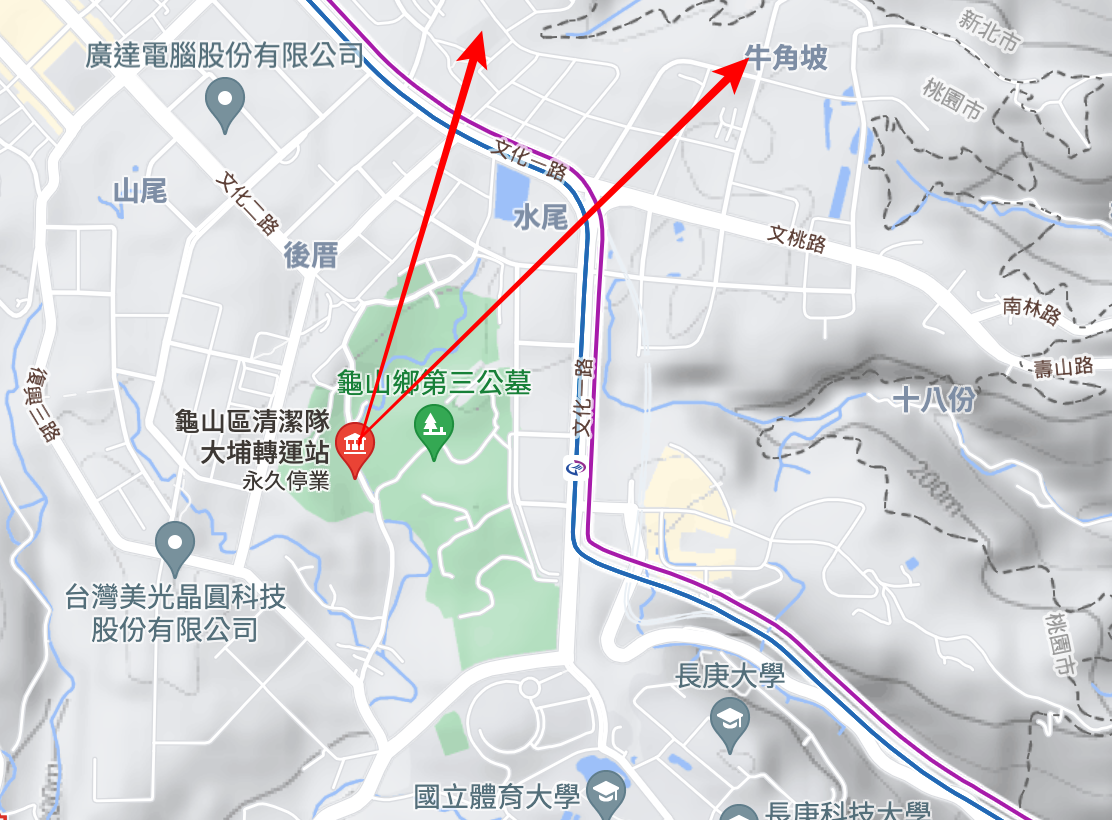
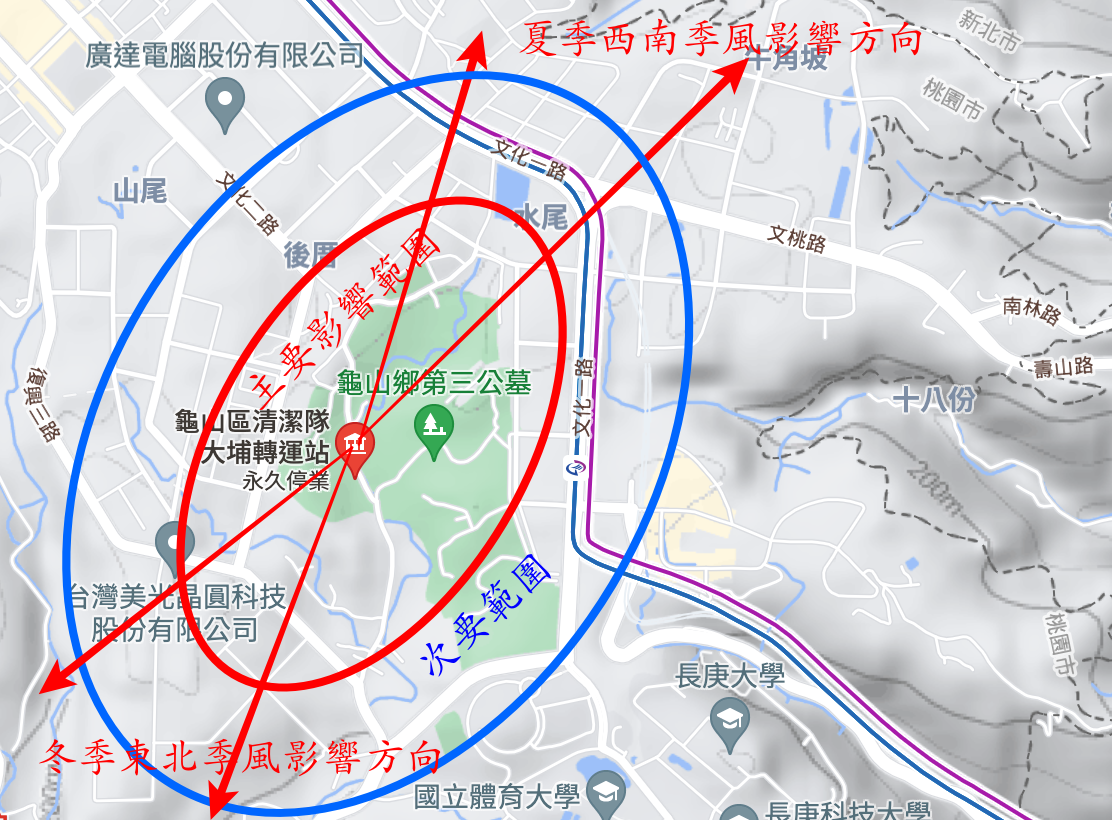
update

diff --git a/A7XLK-23-EnvironmentalProtection.html b/A7XLK-23-EnvironmentalProtection.html
@@ -2716,15 +2716,15 @@
 									龜山區清潔隊大埔轉運站
 									<ul>
 										<li>
-											地址：333台灣桃園市龜山區華亞五路100號
+											地址： <a href="https://www.google.com/maps/place/%E9%BE%9C%E5%B1%B1%E5%8D%80%E6%B8%85%E6%BD%94%E9%9A%8A%E5%A4%A7%E5%9F%94%E8%BD%89%E9%81%8B%E7%AB%99/@25.041748,121.3766392,17z/data=!3m1!4b1!4m5!3m4!1s0x3442a76900000001:0xd1313a7d3e363cd!8m2!3d25.041748!4d121.3788279?hl=zh-Hant-TW">333台灣桃園市龜山區華亞五路100號</a> 
 										</li>
 										<li>
 											電話： 03-397-4924
 										</li>
 									</ul>
-
+									在夏季 6-9月份 西南季風影響下，初步預估可能會影響的區域為 兩個箭頭指向之間。 在空氣自然蔓延的狀況，可能會影響的區域如標示。請居民舉報以便做後需修正。 <br><br>
 									<img src="fig/XLK-231-AirPolution/XLK-2308-大埔垃圾-06.png" class="img-fluid" style="width:600px"> <br>
-									在夏季 6-9月份 西南季風影響下，初步預估可能會影響的區域為 兩個箭頭指向之間。
+									
 									<br><br>
 									<img src="fig/XLK-231-AirPolution/XLK-2308-大埔垃圾-02.png" class="img-fluid" style="width:600px"> <br>
 									顯示 大埔垃圾轉運站的範圍。
